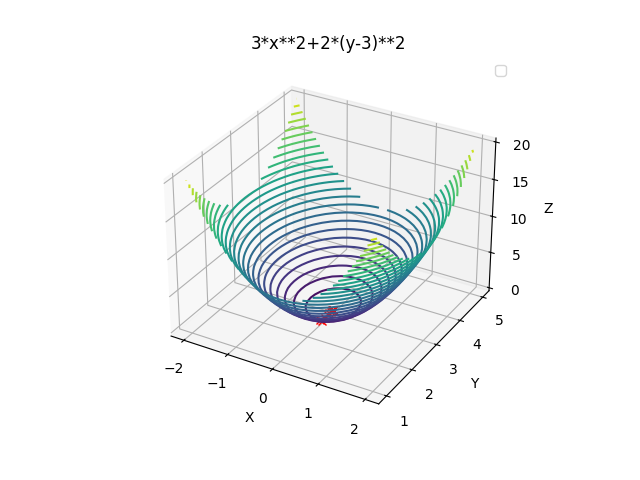
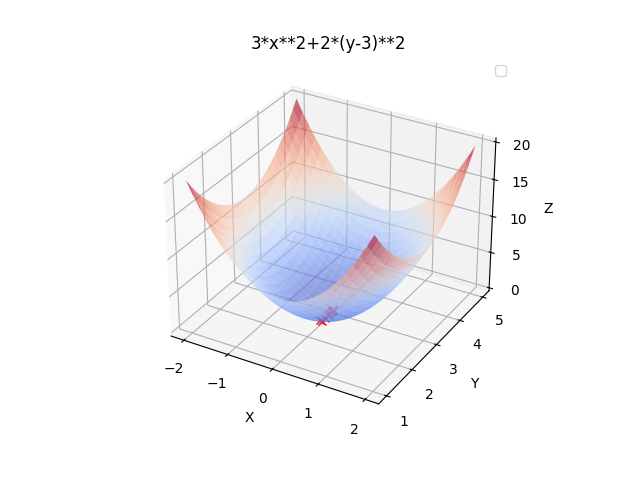
countour line graphic added

Changed region(s): [[0.2812, 0.2188, 0.75, 0.6875]]

diff --git a/utils.py b/utils.py
@@ -37,6 +37,10 @@ def generate_error_graphic(error_list,equation_string):
     plt.grid()
     plt.show()
 
+def my_expression(x,y):
+    return 3*x**2+2*(y-3)**2
+#return -1/((x**2+y**2+1)**(1/2))+2.71**(-x**2-y**2)
+
 def generate_2d_graphic(dot_list,equation,symbols,equation_in_string,save_img=False,range_print=1):
 
     last_element = float(dot_list[-1][0])
@@ -58,21 +62,21 @@ def generate_3d_graphic(dot_list,equation,symbols,equation_in_string,save_img=Fa
     y = np.linspace(last_element_y-range_print, last_element_y+range_print, len(dot_list))
     x, y = np.meshgrid(x, y)
 
-    #z = x**2 + y**2
-    def my_expression(x,y):
-        return 3*x**2+2*(y-3)**2
-
     z = my_expression(x,y)
 
     z_string = to_string(my_expression)
 
-    if z_string.split('return ')[-1] != equation_in_string: raise Exception('Equation in generate_3d_graphic not adjusted, change the equation in my_expression function ')
+    if z_string.split('return ')[-1] != equation_in_string:
+        print(z_string.split('return ')[-1])
+        print(equation_in_string)
+        raise Exception('Equation in generate_3d_graphic not adjusted, change the equation in my_expression function')
 
+    #3d graphic
     fig = plt.figure()
     ax = fig.add_subplot(111, projection='3d')
     ax.plot([i[0] for i in dot_list], [i[1] for i in dot_list], [get_value(i, equation, symbols) for i in dot_list], 'xr')
-    #ax.plot_surface(x,y,z,cmap='coolwarm', alpha=0.6)
-    ax.contour(x, y, z, 30, cmap='viridis', linestyles='solid')  # Níveis no plano Z = -1
+    ax.plot_surface(x,y,z,cmap='coolwarm', alpha=0.6)
+    #ax.contour(x, y, z, 30, cmap='viridis', linestyles='solid')  # Níveis no plano Z = -1
 
     ax.set_title(equation_in_string)
     ax.set_xlabel('X')
@@ -80,7 +84,52 @@ def generate_3d_graphic(dot_list,equation,symbols,equation_in_string,save_img=Fa
     ax.set_zlabel('Z')
     ax.legend()
     if save_img: plt.savefig(f'img/3d.png')
+    plt.show()
 
+    """
+    fig = plt.figure()
+    ax = fig.add_subplot(111)
+    ax.plot([i[0] for i in dot_list], [i[1] for i in dot_list], 'xr')
+    #ax.plot_surface(x,y,z,cmap='coolwarm', alpha=0.6)
+    ax.contourf(x, y, z, 50, cmap='viridis', linestyles='solid')  
+
+    ax.set_title(equation_in_string)
+    ax.set_xlabel('X')
+    ax.set_ylabel('Y')
+    ax.legend()
+    if save_img: plt.savefig(f'img/3d_niveis.png')
+    plt.show()
+    """
+
+def generate_countour_line_graphic(dot_list,equation,symbols,equation_in_string,save_img=False,range_print=1): 
+    
+    last_element_x = float(dot_list[-1][0])
+    last_element_y = float(dot_list[-1][1])
+
+    x = np.linspace(last_element_x-range_print, last_element_x+range_print, len(dot_list))
+    y = np.linspace(last_element_y-range_print, last_element_y+range_print, len(dot_list))
+    x, y = np.meshgrid(x, y)
+
+    z = my_expression(x,y)
+
+    z_string = to_string(my_expression)
+
+    if z_string.split('return ')[-1] != equation_in_string:
+        print(z_string.split('return ')[-1])
+        print(equation_in_string)
+        raise Exception('Equation in generate_3d_graphic not adjusted, change the equation in my_expression function')
+
+    fig = plt.figure()
+    ax = fig.add_subplot(111)
+    ax.plot([i[0] for i in dot_list], [i[1] for i in dot_list], 'xr')
+    #ax.plot_surface(x,y,z,cmap='coolwarm', alpha=0.6)
+    ax.contourf(x, y, z, 50, cmap='viridis', linestyles='solid')  
+
+    ax.set_title(equation_in_string)
+    ax.set_xlabel('X')
+    ax.set_ylabel('Y')
+    ax.legend()
+    if save_img: plt.savefig(f'img/3d_niveis.png')
     plt.show()
 
 def product_vector(v1,v2):

diff --git a/main.py b/main.py
@@ -1,13 +1,16 @@
-from utils import create_function, get_value, generate_error_graphic, generate_2d_graphic, generate_3d_graphic
+from utils import create_function, get_value, generate_error_graphic, generate_2d_graphic, generate_3d_graphic, generate_countour_line_graphic
 from gradient_descent import gradient_descent
 import numpy as np
 import matplotlib.pyplot as plt
 
+# if the function has 2 variables, you need to place the function again in my_expression function.
+
 equation_in_string = "3*x**2+2*(y-3)**2"
-#equation_in_string  = "x**2+y**2"
-#equation_in_string  = "x**2-3*x"
-initial_dot, range_print = [1,1], 2 
-save_img = True
+#equation_in_string = "-1/((x**2+y**2+1)**(1/2))+2.71**(-x**2-y**2)"
+#equation_in_string  = "x**2-3*x" one variable(x), change the initial_dot
+
+initial_dot, range_print = [1,1], 2
+save_img, countour_line_graphic = True, True
 
 equation, symbols = create_function(equation_in_string)
 print(symbols)
@@ -20,3 +23,5 @@ if len(symbols) == 1:
     generate_2d_graphic(dot_list,equation,symbols,equation_in_string,save_img,range_print)
 if len(symbols) == 2:
     generate_3d_graphic(dot_list,equation,symbols,equation_in_string,save_img,range_print)
+    if countour_line_graphic:
+        generate_countour_line_graphic(dot_list,equation,symbols,equation_in_string,save_img,range_print)
